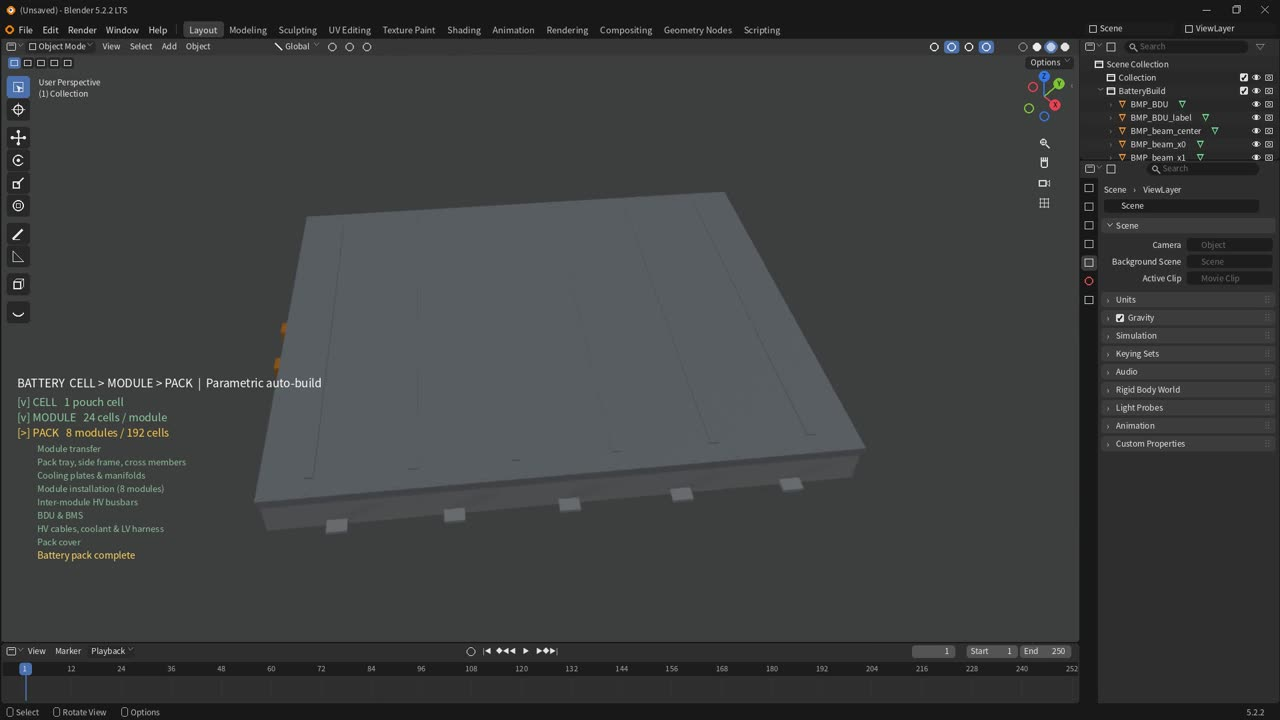
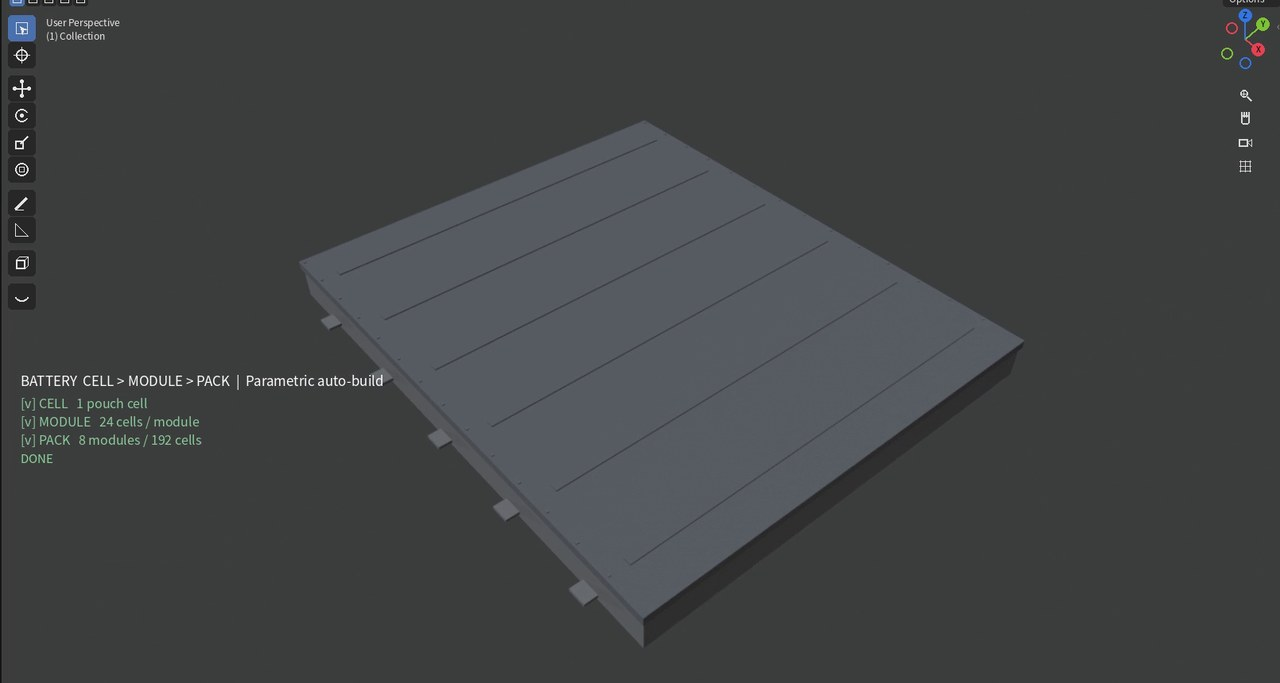
Add files via upload

Changed region(s): [[0.0, 0.0, 1.0, 1.0], [0.0, 0.4305, 0.0312, 0.4612]]

diff --git a/research/index.html b/research/index.html
@@ -4,12 +4,18 @@ title: Research
 section: research
 ---
 {% assign research_items = site.cms_research | where: 'published', true | sort: 'order' %}
+{% assign research_videos = research_items | where_exp: 'item', 'item.video' %}
 <section class="page-hero"><div class="shell"><h1 lang="en">Research</h1></div></section>
 <section class="section alt"><div class="shell"><div class="research-list">
   {% for item in research_items %}
   <article class="research-item">
     {% if item.video %}
-      <div class="research-visual has-image has-video"><video src="{{ item.video | relative_url }}"{% if item.images and item.images.size > 0 %} poster="{{ item.images[0] | relative_url }}"{% endif %} autoplay muted loop playsinline preload="metadata" aria-label="{{ item.title }} 영상"></video></div>
+      <div class="research-visual has-image has-video">
+        <button class="research-play" type="button" data-video="{{ item.video | relative_url }}" data-title="{{ item.title | escape }}" aria-label="{{ item.title | escape }} 영상 재생">
+          {% if item.images and item.images.size > 0 %}<img src="{{ item.images[0] | relative_url }}" alt="">{% else %}<video src="{{ item.video | relative_url }}#t=0.1" muted playsinline preload="metadata"></video>{% endif %}
+          <span class="research-play-icon" aria-hidden="true"></span>
+        </button>
+      </div>
     {% elsif item.images and item.images.size > 0 %}
       <div class="research-visual has-image"><img src="{{ item.images[0] | relative_url }}" alt=""></div>
     {% else %}
@@ -23,3 +29,52 @@ section: research
   </article>
   {% endfor %}
 </div></div></section>
+
+{% if research_videos.size > 0 %}
+<dialog class="research-dialog" id="research-dialog" aria-labelledby="research-dialog-title">
+  <div class="research-dialog-header"><h2 id="research-dialog-title" lang="en"></h2><button type="button" id="research-dialog-close">닫기 ×</button></div>
+  <video id="research-dialog-video" controls playsinline preload="none"></video>
+</dialog>
+<style>
+  .research-play { position: relative; display: block; width: 100%; height: 100%; padding: 0; border: 0; background: none; cursor: pointer; }
+  .research-play img, .research-play video { display: block; width: 100%; height: 100%; object-fit: cover; }
+  .research-play-icon { position: absolute; top: 50%; left: 50%; width: 58px; height: 58px; border-radius: 50%; background: rgba(28, 35, 40, 0.72); box-shadow: 0 0 0 2px rgba(255, 255, 255, 0.85); transform: translate(-50%, -50%); transition: background .15s, transform .15s; }
+  .research-play-icon::after { content: ""; position: absolute; top: 50%; left: 54%; border-style: solid; border-width: 11px 0 11px 18px; border-color: transparent transparent transparent #fff; transform: translate(-50%, -50%); }
+  .research-play:hover .research-play-icon, .research-play:focus-visible .research-play-icon { background: #8c4437; transform: translate(-50%, -50%) scale(1.06); }
+  .research-play:focus-visible, .research-dialog button:focus-visible { outline: 3px solid #94543e; outline-offset: 3px; }
+  .research-dialog { width: min(1160px, 96vw); max-height: 94dvh; padding: 0; border: 1px solid #899691; background: #f7f6f2; color: #243039; overflow: auto; }
+  .research-dialog::backdrop { background: #101b24d9; }
+  .research-dialog-header { position: sticky; top: 0; z-index: 1; display: flex; justify-content: space-between; align-items: center; gap: 20px; padding: 12px 20px; background: #f7f6f2; border-bottom: 1px solid #d4d9d4; }
+  .research-dialog h2 { margin: 0; font-size: 1rem; font-family: inherit; font-weight: 600; }
+  .research-dialog-header button { min-height: 38px; padding: 6px 12px; border: 1px solid #c0c8c2; background: transparent; color: inherit; font: inherit; font-size: .8rem; cursor: pointer; }
+  .research-dialog video { display: block; width: 100%; max-height: 80dvh; background: #1c2328; }
+  @media (prefers-reduced-motion: reduce) { .research-play-icon { transition: none; } }
+</style>
+<script>
+(() => {
+  const dialog = document.getElementById('research-dialog');
+  const video = document.getElementById('research-dialog-video');
+  const title = document.getElementById('research-dialog-title');
+  let opener = null;
+  document.querySelectorAll('.research-play').forEach(button => {
+    button.addEventListener('click', () => {
+      opener = button;
+      title.textContent = button.dataset.title;
+      video.src = button.dataset.video;
+      dialog.showModal();
+      video.play().catch(() => {});
+    });
+  });
+  document.getElementById('research-dialog-close').addEventListener('click', () => dialog.close());
+  dialog.addEventListener('close', () => {
+    video.pause(); video.removeAttribute('src'); video.load();
+    opener?.focus();
+  });
+  dialog.addEventListener('click', event => {
+    if (event.target !== dialog) return;
+    const r = dialog.getBoundingClientRect();
+    if (event.clientX < r.left || event.clientX > r.right || event.clientY < r.top || event.clientY > r.bottom) dialog.close();
+  });
+})();
+</script>
+{% endif %}
